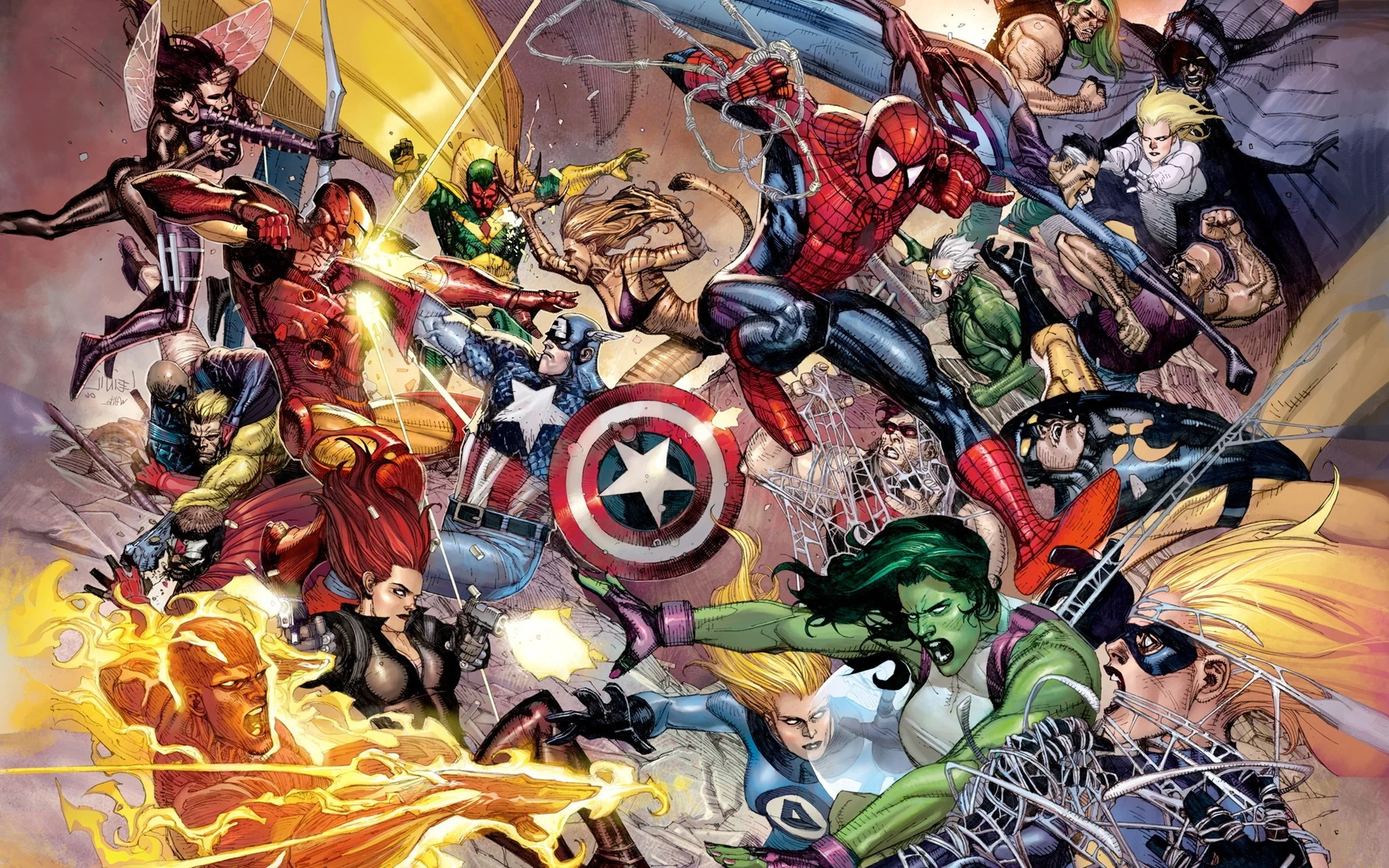
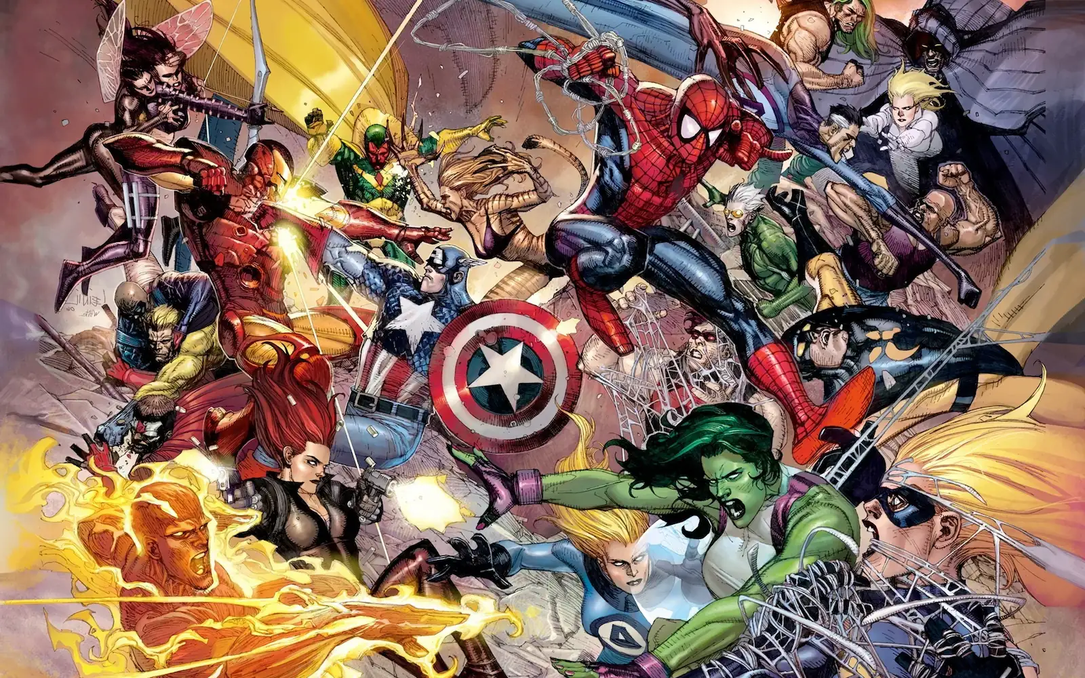
last build

diff --git a/src/pages/HomePage/HomePage.scss b/src/pages/HomePage/HomePage.scss
@@ -4,7 +4,7 @@
 .intro{
     background-image: url("../../avengers_wpp.webp");
     background-size: cover;
-    background-position: center -130px;
+    background-position: center;
     height: 210px;
     margin-top: var(--nav-height);
     position: relative;
